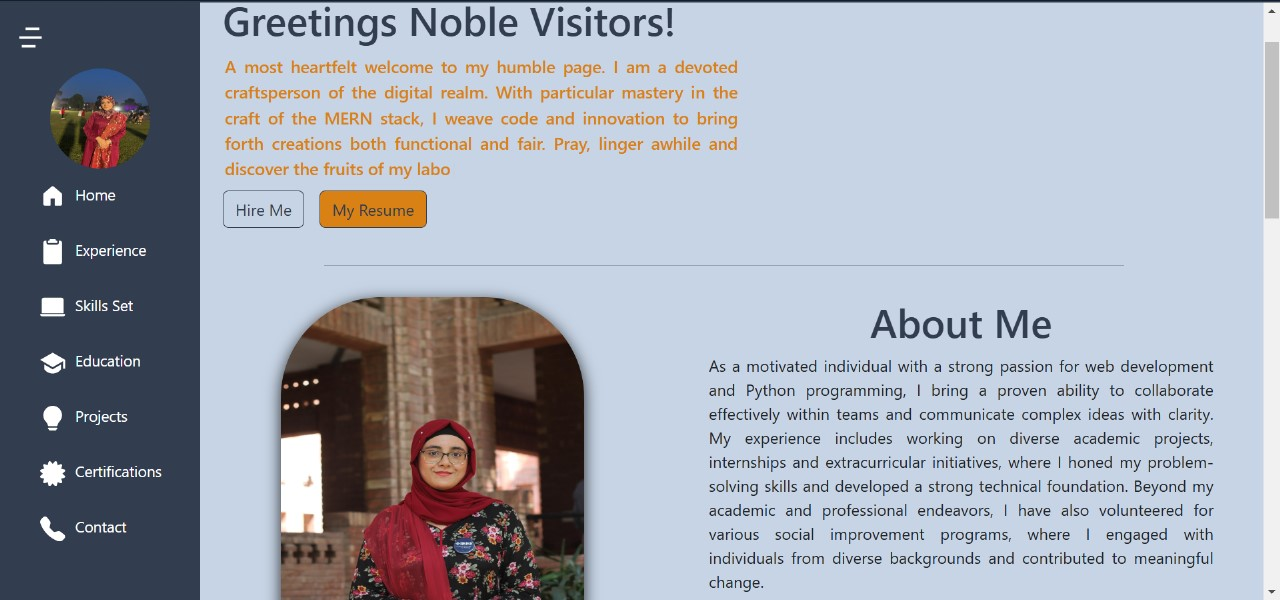
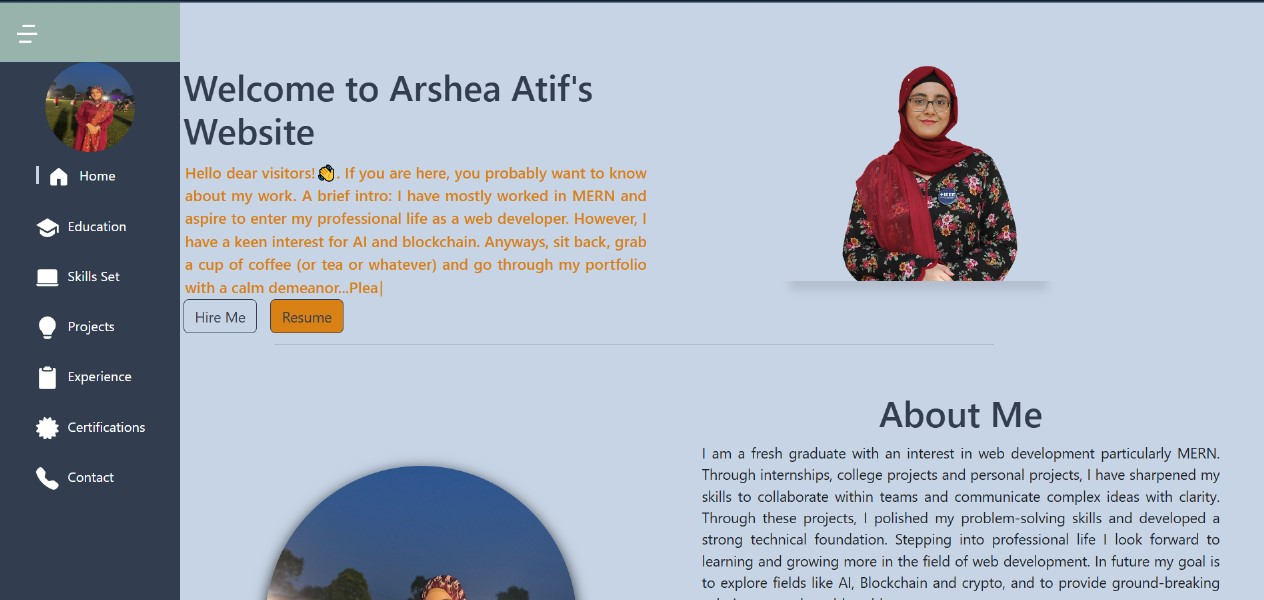
Minor Design Updates

diff --git a/client/src/pages/HomePage/HomePage.js b/client/src/pages/HomePage/HomePage.js
@@ -13,26 +13,26 @@ const HomePage = () => {
         <div className="container home-content">
           <div className="row home-row">
             <div className="col-xl-6 col-lg-6 col-md-6 col-xs-12 home-text">
-          <h1>Welcome to Arshea Atif's Website</h1>
-          <div className="intro">
-            <p>
-              <Typewriter
-                options={{
-                  strings: [
-                    "Hello dear visitors!👋. If you are here, you probably want to know about my work. A brief intro: I have mostly worked in MERN and aspire to enter my professional life as a web developer. However, I have a keen interest for AI and blockchain. Anyways, sit back, grab a cup of coffee (or tea or whatever) and go through my portfolio with a calm demeanor...Please :)",
-                  ],
-                  autoStart: true,
-                  loop: false,
-                  delay: 30,
-                  deleteSpeed: 100000,
-                }}
-              />
-            </p>
-          </div>
-          </div>
-          <div className="col-xl-6 col-lg-6 col-md-6 col-xs-12 my-img">
-            <img src="Me_IEEE.jpg" alt="Profile Pic" />
-          </div>
+              <h1>Welcome to Arshea Atif's Website</h1>
+              <div className="intro">
+                <p>
+                  <Typewriter
+                    options={{
+                      strings: [
+                        "Hello dear visitors!👋. If you are here, you probably want to know about my work. A brief intro: I have mostly worked in MERN and aspire to enter my professional life as a web developer. However, I have a keen interest for AI and blockchain. Anyways, sit back, grab a cup of coffee (or tea or whatever) and go through my portfolio with a calm demeanor...Please :)",
+                      ],
+                      autoStart: true,
+                      loop: false,
+                      delay: 20,
+                      deleteSpeed: 100000,
+                    }}
+                  />
+                </p>
+              </div>
+            </div>
+            <div className="col-xl-6 col-lg-6 col-md-6 col-xs-12 my-img">
+              <img src="Me_IEEE.png" alt="Profile Pic" />
+            </div>
           </div>
           <div className="home-btns">
             <a
@@ -43,7 +43,12 @@ const HomePage = () => {
             >
               Hire Me
             </a>
-            <a className="btn btn-cv" href={FullStack} target="_blank" rel="noreferrer">
+            <a
+              className="btn btn-cv"
+              href={FullStack}
+              target="_blank"
+              rel="noreferrer"
+            >
               Resume
             </a>
           </div>

diff --git a/client/src/pages/HomePage/home.css b/client/src/pages/HomePage/home.css
@@ -1,6 +1,6 @@
 .home-container{
     height: 350px;
-    width: 100%;
+    width: 100vw;
     color: #c7d4e5;
 }
 
@@ -13,8 +13,7 @@
 }
 
 .intro{
-    width: 40em;
-    height: 9em;
+    width: 50vw;
 }
 
 .home-content p{
@@ -27,20 +26,22 @@
 }
 
 .my-img{
-justify-items: center;
-margin-top: 45px;
+    justify-items: center;
+    margin-top: 35px;
 }
 
 .my-img img{
     height: 300px;
     width: 50%;
     display: flex;
-    border-radius: 200px;
-    box-shadow: 0 4px 15px;
+    background: #c7d4e5;
+    box-shadow: rgba(0, 0, 0, 0.1) 0px 20px 10px -10px;    
+    border-bottom: 8px;
+    
+    position: relative;
 }
 
 .home-btns{
-    margin-top: 25px;
     margin-left: 125px;
 }
 
@@ -73,8 +74,16 @@ margin-top: 45px;
     .home-container{
         padding: 0;
         margin: 0;
+        width: 100vw;
         margin-top: 20px;
         height: max-content;
+    }
+
+    .home-text{
+        padding: 0;
+        margin: 0;
+        width: 90vw;
+        margin-left: 5vw;
     }
     .home-container h1{
         margin: 0;
@@ -82,7 +91,24 @@ margin-top: 45px;
     }
     .home-container p{
         margin: 0;
-        width: 310px;
+        width: 87vw;
         font-size: 14px;
+    }
+
+    .my-img{
+        padding:0;
+        width: 90%;
+    }
+    .my-img img{
+        height: 200px;
+        margin: 0;
+        box-shadow: rgba(0, 0, 0, 0.1) 0px 20px 10px -10px;
+    }
+    .home-btns{
+        display: flex;
+        justify-content: center;
+        margin: 0;
+        padding: 0;
+        margin-top: 20px;
     }
 }

diff --git a/client/src/pages/AboutPage/AboutPage.js b/client/src/pages/AboutPage/AboutPage.js
@@ -1,12 +1,13 @@
 import React from "react";
-
 import "./about.css";
+
 const AboutPage = () => {
   return (
     <>
       <div className="about">
         <div className="row">
           <div className="col-xl-6 col-lg-6 col-md-6 col-xs-12 about-img">
+            <img src="arshea_atif.jpg" alt="Picture" />
           </div>
           <div className="col-xl-6 col-lg-6 col-md-6 col-xs-12 about-content">
             <h1>About Me</h1>
@@ -30,9 +31,7 @@ const AboutPage = () => {
               the Ramadan of 2023. Moreover, in the last quarter of 2024, me and
               my team voluteered to give technical education to the orphaned
               children, where we conducted weekly sessions to educate the
-              children about the easy-to-use softwares for freelancing. As a
-              passionate advocate for social justice, I believe in the power of
-              education to empower individuals and communities. I am dedicated
+              children about the easy-to-use softwares for freelancing. As an advocate for social justice, I am dedicated
               to making a positive impact in the world through my work and
               contributions.
             </p>

diff --git a/client/src/pages/SkillSet/skillset.js b/client/src/pages/SkillSet/skillset.js
@@ -9,7 +9,7 @@ const skillset = () => {
         <h2 className="col-12 mt-3 mb-1 text-center text-uppercase">Skill Set</h2>
         <hr />
         <p className="pb-3 text-center">
-          Through different courses throughout my degree, internships and short courses, I gained the following skills. I also have familiarity with below mentioned tools necessary for web development. I am always eager to learn new technologies and tools to enhance my skill set.
+          Through different courses throughout my degree, internships and short courses, I gained the following skills. Having familiarity with below mentioned tools necessary for web development, I am always eager to learn new technologies and tools to enhance my skill set.
         </p>
 
         <div className="row">

diff --git a/client/src/pages/AboutPage/about.css b/client/src/pages/AboutPage/about.css
@@ -6,12 +6,13 @@
 }
 
 .about-img{
-justify-items: center;
-padding: 30px, 0, 0, 25px
+    margin-top: 83px;
+    justify-items: center;
+    padding: 30px, 0, 0, 25px
 }
 
 .about-img img{
-    height: 300px;
+    height: 450px;
     width: 60%;
     display: flex;
     border-radius: 200px;
@@ -43,6 +44,7 @@ padding: 30px, 0, 0, 25px
         margin-top: 10px;
     }
     .about-content p {
-        padding: 10px
+        padding: 10px;
+        font-size: 12px;
     }
 }

diff --git a/client/src/pages/Projects/Projects.js b/client/src/pages/Projects/Projects.js
@@ -1,7 +1,7 @@
 import React from "react";
 import TicketTap from "../../assests/images/TicketTap.jpg";
 import FloralFantasia from "../../assests/images/floral_fantasia.png";
-import PersonalPortfolio from "../../assests/images/personalportfolio.jpg";
+import PersonalPortfolio from "../../assests/images/personalPortfolio.jpg";
 import Perfomix from "../../assests/images/Perfomix.png";
 import "./projects.css";
 

diff --git a/client/src/App.css b/client/src/App.css
@@ -1,3 +1,19 @@
 .footer{
     padding-left: 200px;
 }
+
+.footer .reacrt-scroll-to-top__button:hover{
+    color: #000;
+    background-color: #fff;
+    border: 1px solid #000;
+}
+
+
+@media 
+(max-width: 600px){
+    .react-scroll-to-top__button{
+        bottom: 15px;
+        right: 15px;
+    }
+    
+}

diff --git a/client/src/pages/SkillSet/skillset.css b/client/src/pages/SkillSet/skillset.css
@@ -13,11 +13,6 @@
     color: #323e4f;
 }
 
-.skillset .card{
-    cursor: pointer;
-    transition: background-color 0.3s ease, color 0.3s ease;
-}
-
 .skillset .skill-icon{
     font-size: 2rem;
     margin-right: 5px;

diff --git a/client/src/components/Layout/layout.css b/client/src/components/Layout/layout.css
@@ -41,7 +41,7 @@
     color: #121315;
     width: 800px;
     height: 2px;
-    margin: 10px auto;
+    margin: 30px auto;
     margin-left: 250px;
     justify-self: center;
 }
